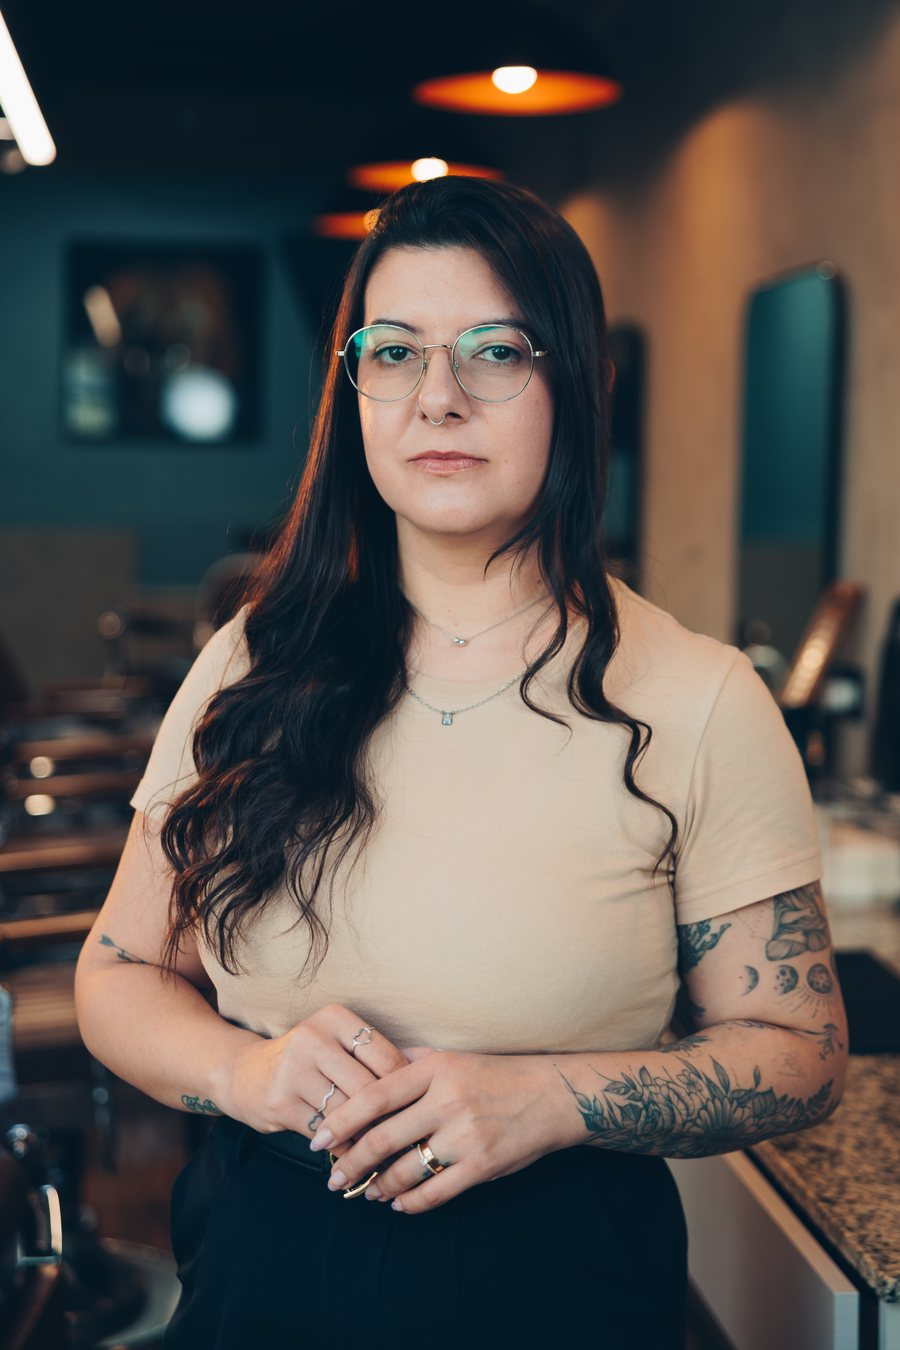
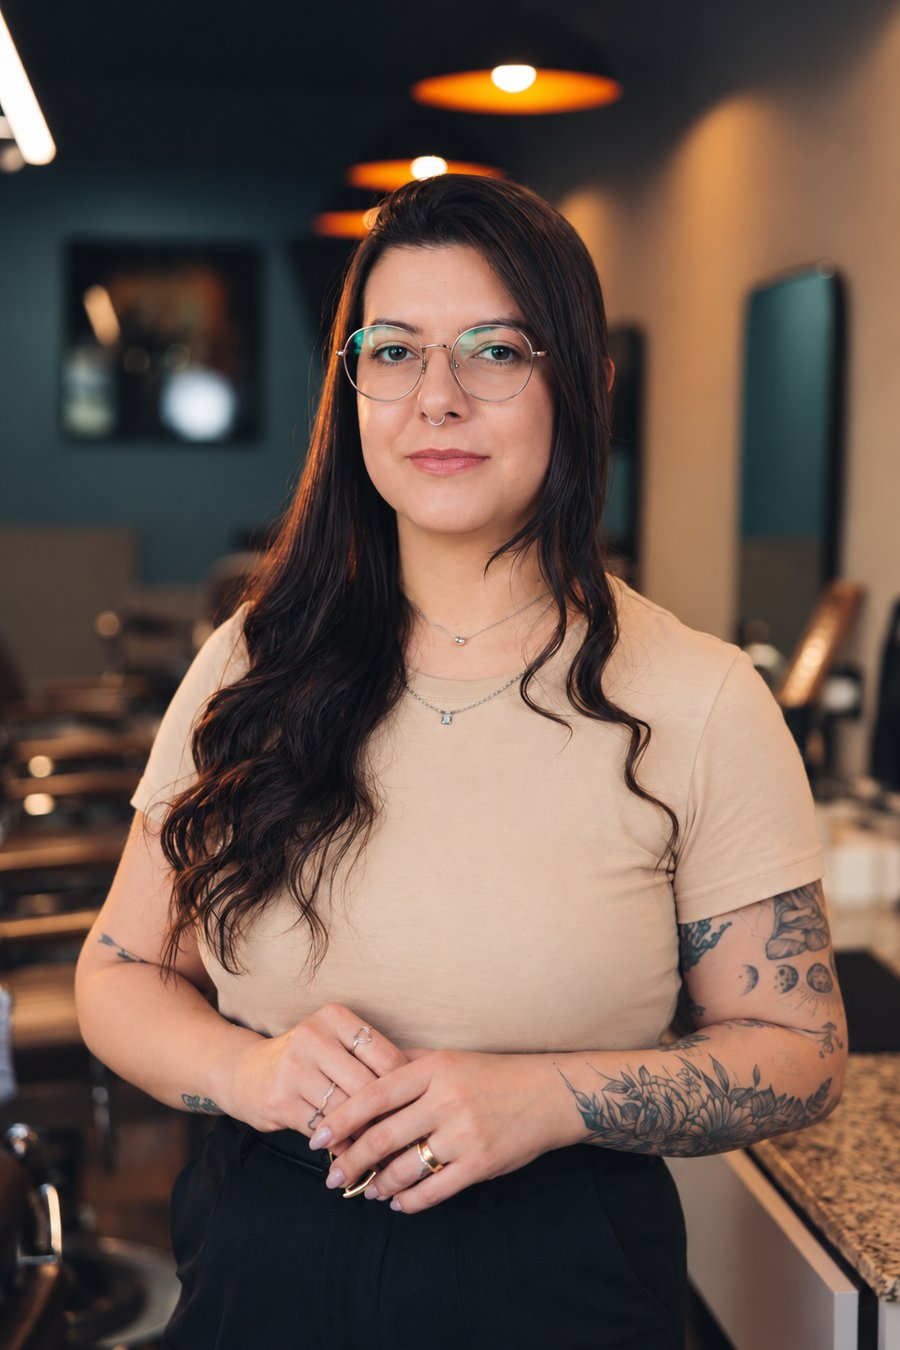
Troca a foto da Liliane

diff --git a/index.html b/index.html
@@ -2230,7 +2230,7 @@ ul { list-style: none; }
       <article class="tc tc--spec fi" itemscope itemtype="https://schema.org/Person">
         <div class="tc__img-wrap">
           <a href="https://www.instagram.com/kutesk.liliane" target="_blank" rel="noopener noreferrer" aria-label="Instagram de Liliane">
-            <img class="tc__img" src="liliane.jpg" width="400" height="400" onerror="this.style.display='none';this.nextElementSibling.style.display='flex';" alt="Liliane — Manicure" loading="lazy" itemprop="image">
+            <img class="tc__img" src="liliane.jpg?v=2" width="400" height="400" onerror="this.style.display='none';this.nextElementSibling.style.display='flex';" alt="Liliane — Manicure" loading="lazy" itemprop="image">
             <div class="ph-img ph--spec" style="display:none;"><i class="fas fa-user"></i><span>liliane.jpg</span></div>
             <div class="tc__ig-overlay"><i class="fab fa-instagram"></i></div>
           </a>
